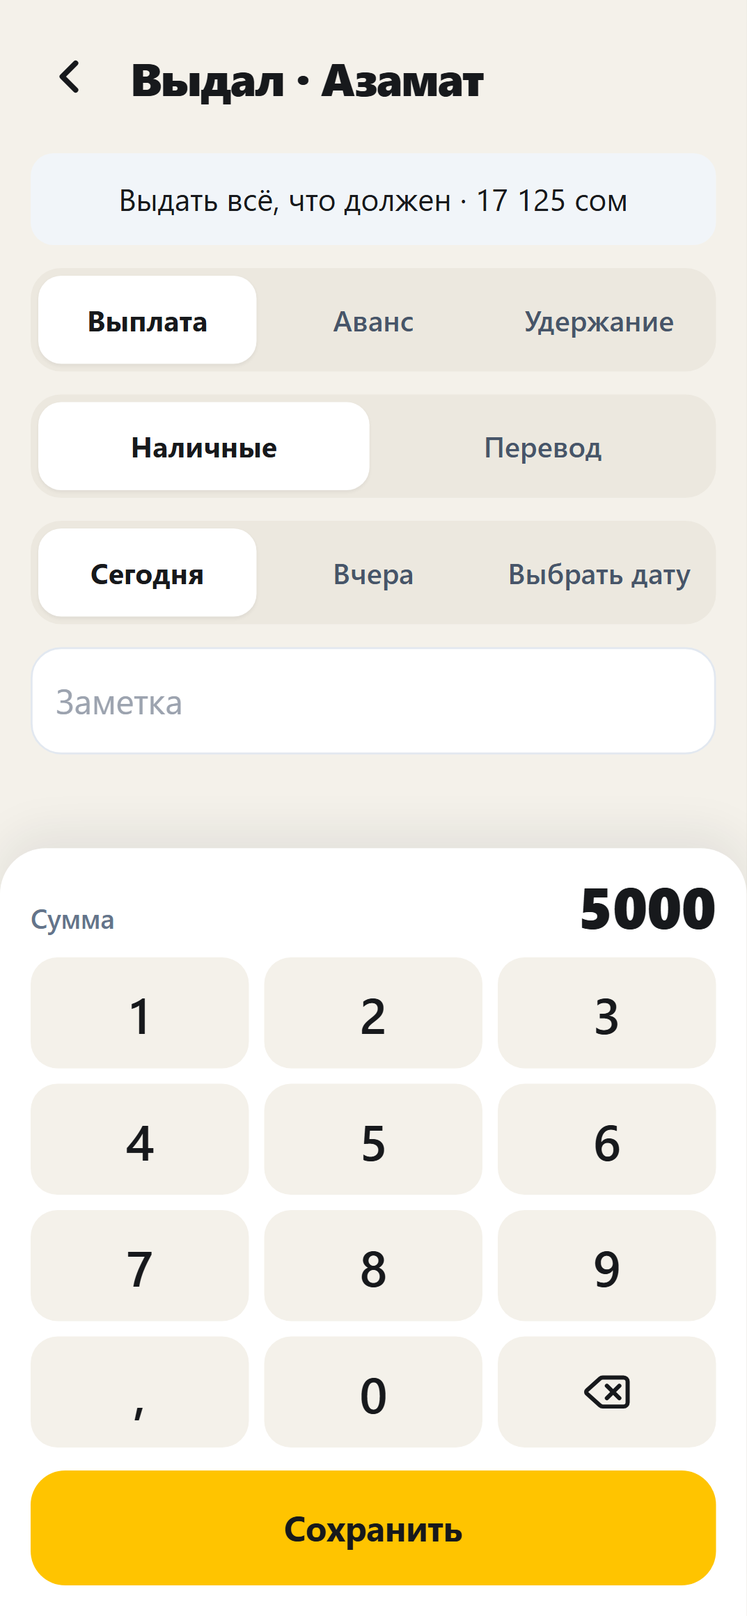
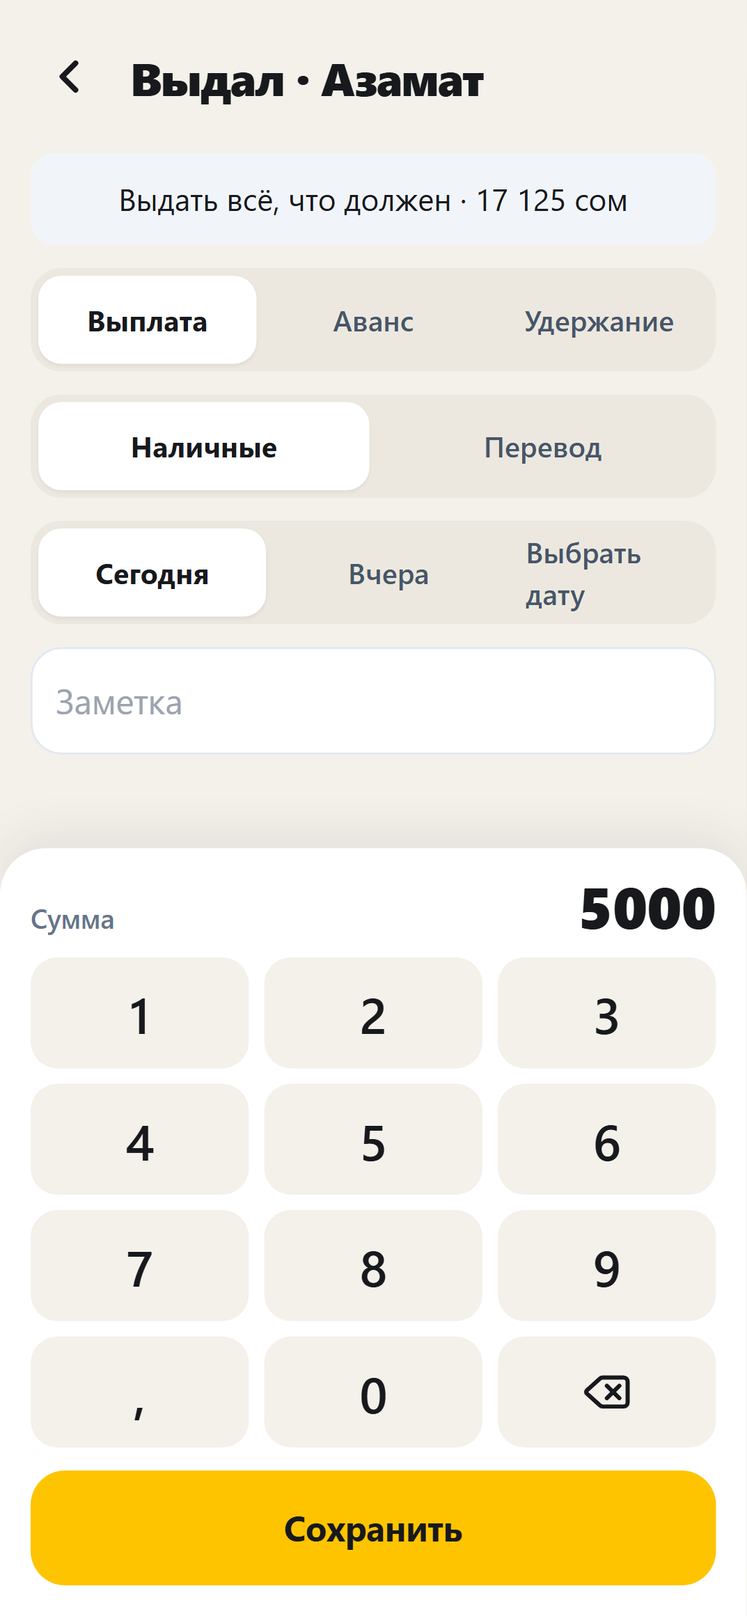
Исправления по замечаниям с телефона
Календарь «Выбрать дату» открывается: поле даты лежит поверх кнопки.
«Удалить всё и начать с нуля» — заметная кнопка, после очистки —
приветствие. PNL по объекту: экран «Мои расходы и выдачи» внутри
объекта, фильтр по объекту в Кассе. Находки аудита — в AUDIT-TODO.md.
17/17 e2e. Версия 0.5.1.

diff --git a/src/screens/ObjectMoneyOut.tsx b/src/screens/ObjectMoneyOut.tsx
@@ -1,0 +1,108 @@
+import { useNavigate, useParams } from 'react-router-dom';
+import { Plus } from 'lucide-react';
+import { useT, useLangStore, formatDateShort } from '../i18n';
+import { useObjectSummary } from '../lib/summary';
+import { usePayouts, useWorkers, byObject } from '../lib/hooks';
+import { notDeleted, payoutsFromCash } from '../core/calc';
+import { formatMoney } from '../core/format';
+import { updateSettings } from '../db/repo';
+import { ScreenHeader } from '../components/ScreenHeader';
+import { BigButton } from '../components/BigButton';
+import { Card, KvRow, SectionTitle, Tag } from '../components/ui';
+
+// Мои расходы и выдачи по этому объекту — вторая половина PNL
+export function ObjectMoneyOut() {
+  const t = useT();
+  const lang = useLangStore((s) => s.lang);
+  const navigate = useNavigate();
+  const { id = '' } = useParams();
+  const s = useObjectSummary(id);
+  const payoutsAll = usePayouts();
+  const workers = useWorkers();
+  const o = s.object;
+  if (!o) return <ScreenHeader title="" />;
+
+  const expenses = notDeleted(s.objExpenses);
+  const myExpenses = expenses.filter((e) => e.paidBy === 'contractor').sort((a, b) => b.date.localeCompare(a.date));
+  const customerExpenses = expenses.filter((e) => e.paidBy === 'customer').sort((a, b) => b.date.localeCompare(a.date));
+  const objPayouts = notDeleted(byObject(payoutsAll, id)).sort((a, b) => b.date.localeCompare(a.date));
+  const payoutsSum = payoutsFromCash(objPayouts);
+  const workerName = (wid: string) => workers.find((w) => w.id === wid)?.name ?? '';
+
+  const canWrite = !o.closedAt && !o.archivedAt;
+
+  return (
+    <div className="flex min-h-screen flex-col bg-paper pb-6">
+      <ScreenHeader title={t('object.myMoney')} sub={o.name} />
+      <div className="flex flex-col gap-3 px-4">
+        <Card>
+          <KvRow label={t('objectOut.myExpenses')} value={`−${formatMoney(s.contractorExp)}`} tone="out" />
+          <KvRow label={t('objectOut.paidTeam')} value={`−${formatMoney(payoutsSum)}`} tone="out" />
+          <KvRow label={t('objectOut.accruedTeam')} value={formatMoney(s.workersSum)} />
+          {customerExpenses.length > 0 && (
+            <KvRow label={t('money.customerExpenses')} value={formatMoney(customerExpenses.reduce((a, e) => a + e.amount, 0))} />
+          )}
+        </Card>
+
+        {canWrite && (
+          <div className="grid grid-cols-2 gap-2">
+            <BigButton
+              label={t('today.spent')}
+              tone="dark"
+              icon={<Plus size={20} aria-hidden="true" />}
+              onClick={() => { void updateSettings({ activeObjectId: o.id }); navigate('/expense/new'); }}
+            />
+            <BigButton
+              label={t('today.paid')}
+              tone="neutral"
+              icon={<Plus size={20} aria-hidden="true" />}
+              onClick={() => { void updateSettings({ activeObjectId: o.id }); navigate('/payout/new'); }}
+            />
+          </div>
+        )}
+
+        <SectionTitle>{t('objectOut.myExpenses')}</SectionTitle>
+        {myExpenses.map((e) => (
+          <button key={e.id} className="flex items-center gap-3 rounded-[16px] bg-white px-3.5 py-3 text-left shadow-card" onClick={() => navigate(`/record/expense/${e.id}`)}>
+            <Tag kind="exp" label={t('feed.expense')} />
+            <span className="min-w-0 flex-1">
+              <span className="block truncate text-[16px] font-semibold">{t(`expense.${e.category}`)}</span>
+              <span className="block text-[13px] font-medium text-slate-500">{formatDateShort(e.date, lang)}{e.note ? ` · ${e.note}` : ''}</span>
+            </span>
+            <span className="text-[17px] font-extrabold text-money-out">−{formatMoney(e.amount)}</span>
+          </button>
+        ))}
+        {myExpenses.length === 0 && <p className="px-1 text-[14px] text-slate-400">{t('common.empty')}</p>}
+
+        <SectionTitle>{t('objectOut.payouts')}</SectionTitle>
+        {objPayouts.map((p) => (
+          <button key={p.id} className="flex items-center gap-3 rounded-[16px] bg-white px-3.5 py-3 text-left shadow-card" onClick={() => navigate(`/record/payout/${p.id}`)}>
+            <Tag kind={p.kind === 'deduction' ? 'grey' : 'pay'} label={t(p.kind === 'advance' ? 'feed.advance' : p.kind === 'deduction' ? 'feed.deduction' : 'feed.payout')} />
+            <span className="min-w-0 flex-1">
+              <span className="block truncate text-[16px] font-semibold">{workerName(p.workerId)}</span>
+              <span className="block text-[13px] font-medium text-slate-500">{formatDateShort(p.date, lang)}</span>
+            </span>
+            <span className="text-[17px] font-extrabold text-money-out">−{formatMoney(p.amount)}</span>
+          </button>
+        ))}
+        {objPayouts.length === 0 && <p className="px-1 text-[14px] text-slate-400">{t('common.empty')}</p>}
+
+        {customerExpenses.length > 0 && (
+          <>
+            <SectionTitle>{t('money.customerExpenses')}</SectionTitle>
+            {customerExpenses.map((e) => (
+              <button key={e.id} className="flex items-center gap-3 rounded-[16px] bg-white px-3.5 py-3 text-left shadow-card" onClick={() => navigate(`/record/expense/${e.id}`)}>
+                <Tag kind="grey" label={t('feed.expense')} />
+                <span className="min-w-0 flex-1">
+                  <span className="block truncate text-[16px] font-semibold">{t(`expense.${e.category}`)}</span>
+                  <span className="block text-[13px] font-medium text-slate-500">{formatDateShort(e.date, lang)}</span>
+                </span>
+                <span className="text-[17px] font-extrabold text-slate-500">{formatMoney(e.amount)}</span>
+              </button>
+            ))}
+          </>
+        )}
+      </div>
+    </div>
+  );
+}

diff --git a/e2e/samat.spec.ts b/e2e/samat.spec.ts
@@ -1,6 +1,6 @@
 // Сквозной сценарий «Самат» по пути бригадира: взял объект → бригада → работа → сдача → деньги.
 import { test, expect } from '@playwright/test';
-import { startWithObject, recordWelding, typeNum } from './helpers';
+import { startWithObject, recordWelding, typeNum, loadDemo } from './helpers';
 
 test('сценарий «Самат»: от нового объекта до кассы 37 000', async ({ page }) => {
   await startWithObject(page, ['Азамат', 'Нурлан']);
@@ -141,6 +141,40 @@ test('перекличка подставляет бригаду в запись
   await page.getByTestId('next-2').click();
   await expect(page.getByTestId('worker-Бакыт')).toHaveClass(/amber/);
   await expect(page.getByTestId('worker-Азамат')).not.toHaveClass(/amber/);
+});
+
+test('своя дата выбирается через календарь', async ({ page }) => {
+  await startWithObject(page, ['Азамат']);
+  await page.getByTestId('btn-receipt').click();
+  await page.getByTestId('date-input').fill('2026-10-01');
+  await expect(page.getByText('1 окт')).toBeVisible();
+  await typeNum(page, '1000');
+  await page.getByTestId('save-receipt').click();
+  await expect(page.getByTestId('btn-work')).toBeVisible();
+});
+
+test('удаление всех данных ведёт на приветствие', async ({ page }) => {
+  await startWithObject(page, ['Азамат']);
+  await page.goto('/#/settings');
+  await page.getByTestId('wipe-all').click();
+  await page.getByTestId('wipe-word').fill('удалить');
+  await page.getByTestId('wipe-confirm').click();
+  await expect(page.getByTestId('start-new-object')).toBeVisible();
+});
+
+test('расходы и выдачи видны по каждому объекту отдельно', async ({ page }) => {
+  await loadDemo(page);
+  // Внутри объекта: мои расходы и выдачи только этого объекта
+  await page.goto('/#/objects');
+  await page.getByTestId('object-БЦ «Триумф»').click();
+  await page.getByTestId('menu-expenses').click();
+  await expect(page.getByText('−11 500 сом')).toBeVisible();
+  await expect(page.getByText('−50 000 сом')).toBeVisible();
+  // В кассе: фильтр по закрытому объекту прячет чужие записи
+  await page.goto('/#/cash');
+  await page.getByTestId('cash-object-filter').selectOption({ label: 'Склад, Кант' });
+  await expect(page.getByText('Кладка · 100 м²')).toBeVisible();
+  await expect(page.getByText('Питание')).toHaveCount(0);
 });
 
 test('закрытие объекта показывает итог', async ({ page }) => {

diff --git a/src/components/DatePick.tsx b/src/components/DatePick.tsx
@@ -1,7 +1,9 @@
 import { todayStr } from '../db/repo';
 import { useT, formatDateShort, useLangStore } from '../i18n';
 
-// Дата: Сегодня / Вчера одной кнопкой / выбрать из календаря
+// Дата: Сегодня / Вчера одной кнопкой / выбрать из календаря.
+// Поле даты лежит прозрачно ПОВЕРХ кнопки — тап попадает прямо в него,
+// и системный календарь открывается на любом телефоне.
 export function DatePick({ value, onChange }: {
   value: string;
   onChange: (date: string) => void;
@@ -12,28 +14,32 @@ export function DatePick({ value, onChange }: {
   const yesterday = todayStr(-1);
   const isOther = value !== today && value !== yesterday;
 
-  const btn = (active: boolean) =>
-    `min-h-[46px] flex-1 rounded-[12px] px-2 text-[15px] ${
+  const seg = (active: boolean) =>
+    `min-h-[46px] rounded-[12px] px-2 text-[15px] ${
       active ? 'bg-white font-bold shadow-sm' : 'font-semibold text-slate-600'
     }`;
 
   return (
     <div className="flex gap-1 rounded-[16px] bg-[#ece8df] p-1">
-      <button className={btn(value === today)} onClick={() => onChange(today)}>
+      <button className={`flex-1 ${seg(value === today)}`} onClick={() => onChange(today)}>
         {t('common.today')}
       </button>
-      <button className={btn(value === yesterday)} onClick={() => onChange(yesterday)}>
+      <button className={`flex-1 ${seg(value === yesterday)}`} onClick={() => onChange(yesterday)}>
         {t('common.yesterday')}
       </button>
-      <label className={`${btn(isOther)} flex cursor-pointer items-center justify-center`}>
-        <span>{isOther ? formatDateShort(value, lang) : t('common.pickDate')}</span>
+      <div className="relative min-w-0 flex-1">
+        <span className={`flex h-full w-full items-center justify-center ${seg(isOther)}`}>
+          {isOther ? formatDateShort(value, lang) : t('common.pickDate')}
+        </span>
         <input
           type="date"
-          className="h-0 w-0 opacity-0"
+          aria-label={t('common.pickDate')}
+          data-testid="date-input"
+          className="absolute inset-0 h-full w-full cursor-pointer opacity-0"
           value={value}
           onChange={(e) => e.target.value && onChange(e.target.value)}
         />
-      </label>
+      </div>
     </div>
   );
 }

diff --git a/src/screens/Cash.tsx b/src/screens/Cash.tsx
@@ -1,3 +1,4 @@
+import { useState } from 'react';
 import { useNavigate } from 'react-router-dom';
 import { FileText } from 'lucide-react';
 import { useT, useLangStore, formatDateShort, translate } from '../i18n';
@@ -15,7 +16,8 @@ export function Cash() {
   const lang = useLangStore((s) => s.lang);
   const navigate = useNavigate();
   const sum = useHomeSummary();
-  const feed = useFeed(30);
+  const [filterObjectId, setFilterObjectId] = useState('');
+  const feed = useFeed(30, filterObjectId || undefined);
   const objects = useObjects();
   const workers = useWorkers();
   const workTypes = useWorkTypes();
@@ -93,6 +95,16 @@ export function Cash() {
         </div>
 
         <SectionTitle>{t('cash.recent')}</SectionTitle>
+        <select
+          className="min-h-[48px] w-full min-w-0 rounded-[14px] border-[1.5px] border-line bg-white px-3 text-[16px] font-semibold"
+          aria-label={t('cash.filterAll')}
+          data-testid="cash-object-filter"
+          value={filterObjectId}
+          onChange={(e) => setFilterObjectId(e.target.value)}
+        >
+          <option value="">{t('cash.filterAll')}</option>
+          {objects.map((o) => <option key={o.id} value={o.id}>{o.name}</option>)}
+        </select>
         {feed.map((row) => (
           <button key={row.key} className="flex items-center gap-3 rounded-[16px] bg-white px-3.5 py-3 text-left shadow-card" onClick={() => navigate(row.to)}>
             <Tag kind={row.tagKind} label={t(row.typeKey)} />

diff --git a/src/screens/ObjectScreen.tsx b/src/screens/ObjectScreen.tsx
@@ -49,6 +49,7 @@ export function ObjectScreen() {
         <MenuRow icon="hammer" title={t('object.works')} sub={t('object.worksSub', { n: s.active.length, date: lastDate ? formatDateShort(lastDate, lang) : '—' })} onClick={() => navigate(`/objects/${o.id}/works`)} testId="menu-works" />
         <MenuRow icon="clip" title={t('object.handover')} sub={t('object.handoverSub', { n: s.unacceptedEntries.length })} onClick={() => navigate(`/objects/${o.id}/handover`)} testId="menu-handover" />
         <MenuRow icon="sack" title={t('object.customerMoney')} sub={t('object.customerMoneySub', { n: s.objReceipts.length, w: s.objAdjustments.length })} onClick={() => navigate(`/objects/${o.id}/money`)} testId="menu-money" />
+        <MenuRow icon="truck" title={t('object.myMoney')} sub={t('object.myMoneySub', { e: formatMoney(s.contractorExp), p: formatMoney(s.workersSum) })} onClick={() => navigate(`/objects/${o.id}/expenses`)} testId="menu-expenses" />
         <MenuRow icon="tag" title={t('object.prices')} sub={o.customerName ?? t('newObject.customer')} onClick={() => navigate(`/objects/${o.id}/prices`)} testId="menu-prices" />
         <MenuRow
           icon="flag"

diff --git a/src/App.tsx b/src/App.tsx
@@ -14,6 +14,7 @@ import { ObjectScreen } from './screens/ObjectScreen';
 import { ObjectWorks } from './screens/ObjectWorks';
 import { Handover } from './screens/Handover';
 import { CustomerMoney } from './screens/CustomerMoney';
+import { ObjectMoneyOut } from './screens/ObjectMoneyOut';
 import { ObjectPrices } from './screens/ObjectPrices';
 import { ObjectResult } from './screens/ObjectResult';
 import { CloseObject } from './screens/CloseObject';
@@ -74,6 +75,7 @@ export default function App() {
           <Route path="/objects/:id/works" element={<ObjectWorks />} />
           <Route path="/objects/:id/handover" element={<Handover />} />
           <Route path="/objects/:id/money" element={<CustomerMoney />} />
+          <Route path="/objects/:id/expenses" element={<ObjectMoneyOut />} />
           <Route path="/objects/:id/prices" element={<ObjectPrices />} />
           <Route path="/objects/:id/result" element={<ObjectResult />} />
           <Route path="/objects/:id/close" element={<CloseObject />} />

diff --git a/src/screens/ObjectResult.tsx b/src/screens/ObjectResult.tsx
@@ -80,6 +80,10 @@ export function ObjectResult() {
           </Card>
         )}
 
+        <button className="min-h-[48px] rounded-[14px] bg-white text-[15px] font-bold text-slate-700 shadow-card" onClick={() => navigate(`/objects/${id}/expenses`)}>
+          {t('result.lists')} →
+        </button>
+
         <div className="grid grid-cols-2 gap-2">
           <BigButton label={t('handover.buildAct')} tone="neutral" icon={<FileText size={20} aria-hidden="true" />} onClick={() => navigate(`/act?objectId=${id}`)} />
           <BigButton label={t('result.send')} tone="neutral" icon={<Send size={20} aria-hidden="true" />} onClick={() => void report()} />

diff --git a/AUDIT-TODO.md b/AUDIT-TODO.md
@@ -1,0 +1,70 @@
+# Находки аудита интерфейса (22 октября) — к исправлению в следующий заход
+
+## [ПОДТВЕРЖДЕНО] RecordCard.tsx:112 — Заметка в карточке записи сохраняется только по onBlur и теряется при системном «Назад»
+Поле заметки — неуправляемый input с defaultValue, сохранение только в onBlur (строка 112). На телефоне blur при уходе с экрана НЕ срабатывает: (1) Android/TWA — первая системная «Назад» закрывает клавиатуру, НЕ снимая фокус с поля; вторая «Назад» навигирует, React размонтирует компонент, а при удалении сфокусированного элемента из DOM браузеры не шлют blur/focusout → patch({note}) не вызывается, текст молча пропадает; (2) iOS Safari — свайп-назад даёт тот же unmount без blur; (3) сворачивание/убийство приложения с открытой клавиатурой. Внутренняя кнопка «Назад» в шапке случайно работает (тап по кнопке сначала даёт blur), поэтому при тестировании пальцем на своей навигации баг не виден. Исправление: сохранять в onChange (можно с debounce ~500мс), onBlur оставить как финальный trim; либо перевести на управляемый state + сохранение и в onChange, и в onBlur.
+
+## [ПОДТВЕРЖДЕНО] WorkerCard.tsx:156 — Шторка «Изменить рабочего»: тап мимо листа стирает введённые имя/телефон; на iPhone клавиатура закрывает «Сохранить»
+Нижний лист редактирования (строки 155–176) — fixed inset-0 items-end, onClick по подложке = setEditing(false) без подтверждения. Лист прижат к низу layout-вьюпорта, который при открытой клавиатуре НЕ сжимается ни на iOS, ни на Android Chrome 108+ (дефолт interactive-widget=resizes-visual) — кнопка «Сохранить» оказывается под клавиатурой. На iPhone нет системной «Назад», естественный жест «закрыть клавиатуру» — тап по свободному месту, т.е. по затемнённой подложке → модалка закрывается и ВСЁ введённое (имя, специальность, телефон) молча пропадает. Исправление: не закрывать по подложке, пока document.activeElement — input внутри листа (первый тап только blur-ит поле и гасит клавиатуру), и/или закрывать только по явной кнопке «Отмена»; для форм с системной клавиатурой лучше якорить лист к верху.
+
+## [ПОДТВЕРЖДЕНО] SettingsScreen.tsx:216 — Та же ловушка в настройках: шторки «Свой вид работ» и «Стереть всё» закрываются тапом мимо и теряют ввод
+Два нижних листа с системной клавиатурой: форма своего вида работ (строка 190, autoFocus на названии) и подтверждение очистки словом (строка 216, input на 220). Оба закрываются onClick по подложке без подтверждения. Сценарий на iPhone: пользователь печатает слово-подтверждение, кнопка «Удалить» под клавиатурой, он тапает мимо, чтобы убрать клавиатуру, → лист закрылся, ввод пропал, функция «начать с нуля» выглядит неработающей (ровно жалоба пользователя). Бонус: autoFocus на iOS не открывает клавиатуру при появлении листа — поле выглядит активным, но печатать нельзя до второго тапа. Исправление то же, что для WorkerCard: игнорировать тап по подложке при сфокусированном input внутри + явная «Отмена».
+
+## [ПОДТВЕРЖДЕНО] ActPrint.tsx:83 — «Распечатать акт»: window.print() — no-op в установленном на iPhone приложении (standalone)
+Приложение ставится на iPhone через «На экран Домой» (apple-mobile-web-app-capable в index.html), а в standalone-режиме iOS window.print() ничего не делает — ни диалога, ни ошибки: кнопка выглядит рабочей, но мертва. В Android TWA печать работает (Chrome). Исправление: при navigator.standalone / matchMedia('(display-mode: standalone)') на iOS прятать кнопку или заменять её на подсказку «открой в Safari» / генерацию файла и navigator.share, иначе бригадир на iPhone не получит акт вообще.
+
+## [ПОДТВЕРЖДЕНО] files.ts:2 — downloadBlob (a.download + blob) ненадёжен в iOS standalone — «Скачать JSON» (резервная копия) может молча не сработать
+downloadBlob создаёт отвязанный <a download> и кликает. В установленном на iPhone standalone-приложении скачивание файлов через download-атрибут/blob широко известно как неработающее или непредсказуемое (нет менеджера загрузок; часто просто ничего не происходит). Это ломает ключевой сценарий: подсказка в настройках велит раз в неделю скачивать brigadir-backup.json и слать себе в WhatsApp (SettingsScreen.tsx:168, settings.backupHint) — на iPhone пользователь без бэкапа. Исправление: сначала пробовать navigator.share({ files: [new File([blob], name, {type})] }) (на iOS это открывает шэр-шит, откуда WhatsApp — даже удобнее), fallback — текущий anchor-клик.
+
+## [ПОДТВЕРЖДЕНО] Cash.tsx:37 — «Экспорт CSV» стреляет пятью скачиваниями с одного тапа — мобильные браузеры блокируют всё после первого
+exportCsv (строки 37–56) вызывает downloadText 5 раз подряд (raboty, vydachi, rashody, postupleniya, kassa). Android Chrome/TWA разрешает одну автоматическую загрузку на жест; остальные либо режутся молча, либо требуют отдельного разрешения «разрешить несколько файлов» — пользователь уверен, что выгрузил всё, а получил один raboty.csv. На iOS ещё хуже (см. находку про downloadBlob). Исправление: собирать один файл (один CSV с разделами или zip через JSZip) и отдавать одним скачиванием/через navigator.share.
+
+## [ПОДТВЕРЖДЕНО] Objects.tsx:77 — Архивированный объект нельзя разархивировать: экран объекта недостижим
+Для закрытого или архивного объекта список «Объекты» ведёт только на /objects/:id/result (Objects.tsx:77), а экран самого объекта /objects/:id с его меню больше ниоткуда не открывается. Кнопка «Разархивировать» живёт только в ObjectPrices.tsx:95-97, куда можно попасть лишь через меню ObjectScreen. Цепочка: ObjectPrices → «Архивировать» → navigate(-1); после этого объект попадает в нижний список Objects, тап по нему открывает только «Итог» — и с него нет пути ни к /objects/:id, ни к /prices. Объект остаётся архивным навсегда (у рабочих, для сравнения, архивный список в Team ведёт на WorkerCard, где кнопка «Разархивировать» доступна). Заодно для закрытых объектов недостижимы журнал работ, сдача и деньги заказчика (/works, /handover, /money) — вся история видна только через «Расходы и выдачи списком». Исправление: в ObjectResult добавить ссылку на /objects/:id (или вести закрытые карточки на ObjectScreen), либо продублировать «Разархивировать» на экране итога.
+
+## [ПОДТВЕРЖДЕНО] ActPrint.tsx:83 — «Распечатать акт» — window.print() мёртв в установленном приложении
+Единственное действие экрана «Акт» — BigButton с onClick={() => window.print()} (ActPrint.tsx:83). Манифест собирается с display: 'standalone' (vite.config.ts:34). В iOS standalone (приложение с экрана «Домой») window.print() — документированный no-op: диалога печати в standalone-режиме у WebKit нет, тап не делает ничего. В Android TWA печать из Trusted Web Activity тоже давно сломана/ненадёжна в Chromium. То есть именно на телефоне, куда приложение ставится, кнопка выглядит рабочей, но молчит. Обход: вместо window.print() формировать файл и отдавать через navigator.share({files:[...]}) (работает в standalone iOS/Android), а window.print() оставить фолбэком, когда navigator.share недоступен; минимум — показывать toast «Откройте в браузере, чтобы распечатать», когда matchMedia('(display-mode: standalone)') истинно.
+
+## [ПОДТВЕРЖДЕНО] files.ts:2 — Резервная копия и CSV: скачивание через a[download]+blob молча не срабатывает в iOS standalone
+downloadBlob() создаёт <a download href=blob:> и вызывает a.click() (files.ts:2-9). Через него работают и «Скачать копию» (SettingsScreen.tsx:58-61, кнопка download-json) — единственный путь спасения данных, и «Экспорт CSV» (Cash.tsx exportCsv, 5 файлов подряд). В Safari standalone-PWA атрибут download на blob-ссылках исторически игнорируется/срабатывает нестабильно (известное ограничение WebKit для standalone): на iPhone, где приложение и живёт, тап по «Скачать копию» может не делать вообще ничего, без ошибки. Для бэкапа это критичный молчаливый отказ. Обход: в standalone сначала пробовать navigator.share({ files: [new File([blob], name, {type})] }) — работает в iOS 15+, фолбэк на текущий a.click(); для CSV — то же самое (заодно 5 последовательных a.click() не режутся как множественные скачивания).
+
+## [ПОДТВЕРЖДЕНО] ScreenHeader.tsx:22 — Стрелка «Назад» мертва после перезагрузки: navigate(-1) при пустой истории — no-op, с /settings не выйти
+Дефолтный back в шапке — onClick={onBack ?? (() => navigate(-1))} (ScreenHeader.tsx:22). Если экран открыт первой записью истории (idx===0), navigate(-1) ничего не делает. Это реально происходит в самом приложении: баннер обновления делает window.location.reload() (UpdateBanner.tsx:46) — пользователь, нажавший «Обновить» на /settings (кнопка «Проверить обновления» как раз там), после перезагрузки остаётся на #/settings с пустой историей; то же при восстановлении TWA после выгрузки процесса. /settings и все экраны записей лежат вне TabLayout — нижней навигации нет, стрелка молчит, системный «Назад» Android закрывает приложение, а в iOS standalone жеста выхода нет вовсе: пользователь заперт до перезапуска. В BottomNav.tsx:22-26 и WorkWizard.back() (WorkWizard.tsx:142-145) этот случай уже обрабатывают — ScreenHeader остался без защиты. Исправление: в дефолтном обработчике, как там же: если (history.state?.idx ?? 0) === 0 → navigate('/', { replace: true }), иначе navigate(-1).
+
+## [ПОДТВЕРЖДЕНО] backup.ts:58 — Импорт копии сначала стирает всю базу, и при ошибке файла данные теряются безвозвратно
+importBackup() вызывает wipeAll() ОТДЕЛЬНОЙ транзакцией до вставки строк. Если bulkAdd падает (битый/отредактированный JSON, дубликаты id, строка без id — isBackupFile() проверяет только поля app/schema/data), внутренняя транзакция откатывается, но wipeAll уже закоммичен: пользователь видит тост «Не удалось импортировать» и остаётся с ПУСТОЙ базой — все объекты, записи и бригада уничтожены. То же самое при убийстве приложения между wipe и вставкой. Исправление: выполнять очистку и вставку в одной db.transaction('rw', db.tables, ...) — тогда неудачный импорт откатится целиком и старые данные останутся.
+
+## [ПОДТВЕРЖДЕНО] WorkWizard.tsx:188 — Двойной тап по «Сохранить» создаёт две записи: нет защиты от повторного сабмита
+save() асинхронный, а кнопка не блокируется на время записи. Двойной тап на телефоне вызывает addWorkEntry дважды → две одинаковые записи работы; затем navigate(-delta) срабатывает дважды и выбрасывает пользователя на лишний экран назад. Тост «Отменить» при этом покрывает только вторую запись — дубль остаётся незаметным и искажает долг бригаде и «сделано». Та же дыра во всех формах денег: PayoutNew.tsx:38 (двойная выдача рабочему), ExpenseNew.tsx:33, ReceiptNew.tsx:30, CashMoveNew.tsx:23, AdjustmentNew.tsx:29, а также remove() в RecordCard.tsx:67 и WorkEntryCard.tsx:60 (двойной navigate(-1)). Образец решения уже есть в проекте: NewObjectWizard.tsx:39,66 использует флаг saving — нужно добавить такой же guard (или disabled на время await) во все перечисленные save()/remove().
+
+## [ПОДТВЕРЖДЕНО] Objects.tsx:77 — Закрытый или архивный объект — тупик: открыть заново или разархивировать невозможно
+Единственный путь снять closedAt — тост «Отменить» 5 секунд в CloseObject.tsx:40. После этого закрытый объект навсегда закрыт: в списке «Объекты» карточка закрытого/архивного ведёт только на /result (Objects.tsx:77), откуда нет перехода на ObjectScreen, «Работы», «Сдачу» или «Цены». Кнопка «Вернуть из архива» существует (ObjectPrices.tsx:95), но экран цен достижим только из ObjectScreen, куда для закрытых/архивных объектов не ведёт ни одна кнопка — т.е. архивация объекта тоже необратима через интерфейс. Случайно закрыл объект (кнопка «Закрыть» активна даже при жёлтых предупреждениях) — и больше не можешь ни дописать работу, ни исправить, ни вернуть. Нужно: на экране итога закрытого объекта кнопка «Открыть объект заново» (и/или вести карточку закрытого объекта на ObjectScreen с пунктами меню).
+
+## [ПОДТВЕРЖДЕНО] SettingsScreen.tsx:174 — «Загрузить пример» в настройках без подтверждения засоряет реальные данные, и вычистить их нельзя
+loadDemo() (seed.ts:80) всегда создаёт новый объект «БЦ Триумф», закрытый «Склад, Кант», 4 рабочих, 12 записей, выплаты и расходы, переключает activeObjectId на демо-объект и ставит openingCash = 150 000 сом, если был 0. Кнопка в настройках видна всегда и срабатывает мгновенно, без confirm. Пользователь с реальными данными, тапнув «посмотреть пример», получает демо-рабочих вперемешку со своей бригадой (демо-долги попадают в «Должен бригаде» и блокируют проверку закрытия других объектов), а повторный тап плодит второй «БЦ Триумф» и ещё 4 рабочих. Удалить демо можно только полным «Удалить всё». Нужно: подтверждение + показывать кнопку только на пустой базе (как на экране приветствия Today.tsx:49) или помечать демо-данные и давать кнопку их снятия.
+
+## [ПОДТВЕРЖДЕНО] WorkWizard.tsx:110 — Черновик мастера живёт только в памяти: уход в камеру или сворачивание стирает всё введённое
+useDraft (state/draft.ts) — zustand без persist. На последнем шаге мастера пользователь жмёт «Фото» (PhotoPicker) — открывается камера, и на телефонах с малой памятью ОС убивает PWA/TWA в фоне. После возврата страница перезагружается, draft пуст, и эффект WorkWizard.tsx:110-116 молча сбрасывает на ?step=0: объём, цены, участники, деление и заметка потеряны, фото не прикрепилось. То же при долгом сворачивании (позвонили посреди ввода). Лечится сохранением draft в sessionStorage/localStorage (zustand persist) и восстановлением на шаге из URL.
+
+## [ПОДТВЕРЖДЕНО] ActPrint.tsx:83 — «Распечатать» акт в установленном приложении, скорее всего, ничего не делает
+Кнопка вызывает window.print(). В Android TWA печать не поддерживается — window.print() там типично no-op без какого-либо сообщения; в iOS standalone (с экрана «Домой») печать из window.print() тоже исторически не работает. То есть именно в целевом сценарии (приложение на телефоне) главная кнопка экрана «Акт» выглядит рабочей, но не даёт ничего. Нужен запасной путь: генерировать файл/текст и отдавать через navigator.share(), либо открывать акт во внешнем браузере. Проверить стоит на реальном устройстве, но рассчитывать на window.print() в TWA нельзя.
+
+## [мелкое] PhotoPicker.tsx:30 — Добавление фото падает молча: pick()/compressImage без обработки ошибок
+Сам паттерн label + скрытый (display:none) file-input на iOS/Android рабочий — тап ловится, это проверено (в отличие от date-input). Проблема дальше: pick() ждёт compressImage, а compressImage использует createImageBitmap(file) (lib/files.ts:30), который кидает исключение на iOS < 15 и на любом файле, который не удалось декодировать (битый/экзотический формат из галереи). onChange делает `void pic
+
+## [мелкое] ObjectPrices.tsx:34 — Правка заказчика/телефона сохраняется только кнопкой, которая появляется после первого символа; «Назад» молча стирает правки
+Поля «объект/заказчик/телефон/условия» пишут в локальный form state, persist() вызывается только кнопкой «Сохранить» (строка 75), которая до первого изменения вообще не отрисована. На телефоне привычный выход — системная «Назад»: компонент размонтируется, правки пропадают без предупреждения. Рядом стоящие расценки при этом сохраняются мгновенно (NumSheet → upsertRate), так что пользователь ожидает
+
+## [мелкое] draft.ts:50 — Черновик мастера «Сделали работу» живёт только в памяти — звонок/переключение приложения может стереть всю запись
+useDraft — обычный zustand без persist. Все четыре шага (объём, цены, рабочие, заметка-textarea) теряются, если Android убьёт фоновую TWA (входящий звонок, переход в WhatsApp отправить фото, нехватка памяти) — для бригадира на объекте это частый сценарий. Фото при этом уже лежат в IndexedDB (db.photos) и остаются сиротами. Исправление: zustand persist в localStorage (черновик маленький, photoIds —
+
+## [мелкое] NewObjectWizard.tsx:66 — Мастер нового объекта после перезагрузки на шаге 3: «Готово» молча не работает
+Шаг мастера живёт в URL (?step=N), а введённые поля — в useState. После перезагрузки/восстановления TWA на /objects/new?step=2 состояние пустое, но, в отличие от WorkWizard (который принудительно делает navigate('?step=0') при инициализации, WorkWizard.tsx:115), здесь защиты нет. finish() начинается с if (saving || !name.trim()) return; (NewObjectWizard.tsx:66) — обе кнопки «Готово» и «Позже» (стр
+
+## [мелкое] Cash.tsx:37 — «Выгрузить CSV» запускает 5 скачиваний с одного тапа — на телефоне доходит обычно только первое
+exportCsv() вызывает downloadText пять раз подряд (raboty, vydachi, rashody, postupleniya, kassa). Мобильный Chrome блокирует множественные скачивания: либо просит отдельное разрешение «скачать несколько файлов» (в TWA его легко не увидеть), либо молча отбрасывает все, кроме первого; iOS Safari из одного жеста тоже отдаёт один файл. Пользователь думает, что сохранил всё, а на деле у него только ra
+
+## [мелкое] WorkWizard.tsx:186 — Деление «вручную»: на шаге «Проверь» кнопка «Сохранить» серая без объяснения причины
+При splitMode='manual' canSave требует manualRemainder === 0, но подсказка «Остаток: …» рендерится только на шаге 3 (строки 521-525). Если суммы не сходятся на копейку (частый случай после правки цены на шаге 2 кнопкой «назад»), на финальном шаге пользователь видит заполненную карточку и мёртвую серую кнопку — тупик без сообщения. Нужно показывать остаток и на шаге «Проверь» (рядом с кнопкой) или 
+
+## [мелкое] PayoutNew.tsx:42 — Выдача рабочему всегда пишется на текущий объект — в разрезе по объекту попадает не туда
+addPayout получает objectId: activeObject?.id независимо от того, откуда пришли (Team «Рассчитаться», карточка рабочего). Если долг рабочего накоплен на объекте Б, а активен объект А, выплата запишется на А: глобальный баланс рабочего сойдётся, но «Выдал бригаде» в деньгах объекта (ObjectMoneyOut) покажет её под чужим объектом — именно та каша по объектам, которую пользователь пытается разложить. 
